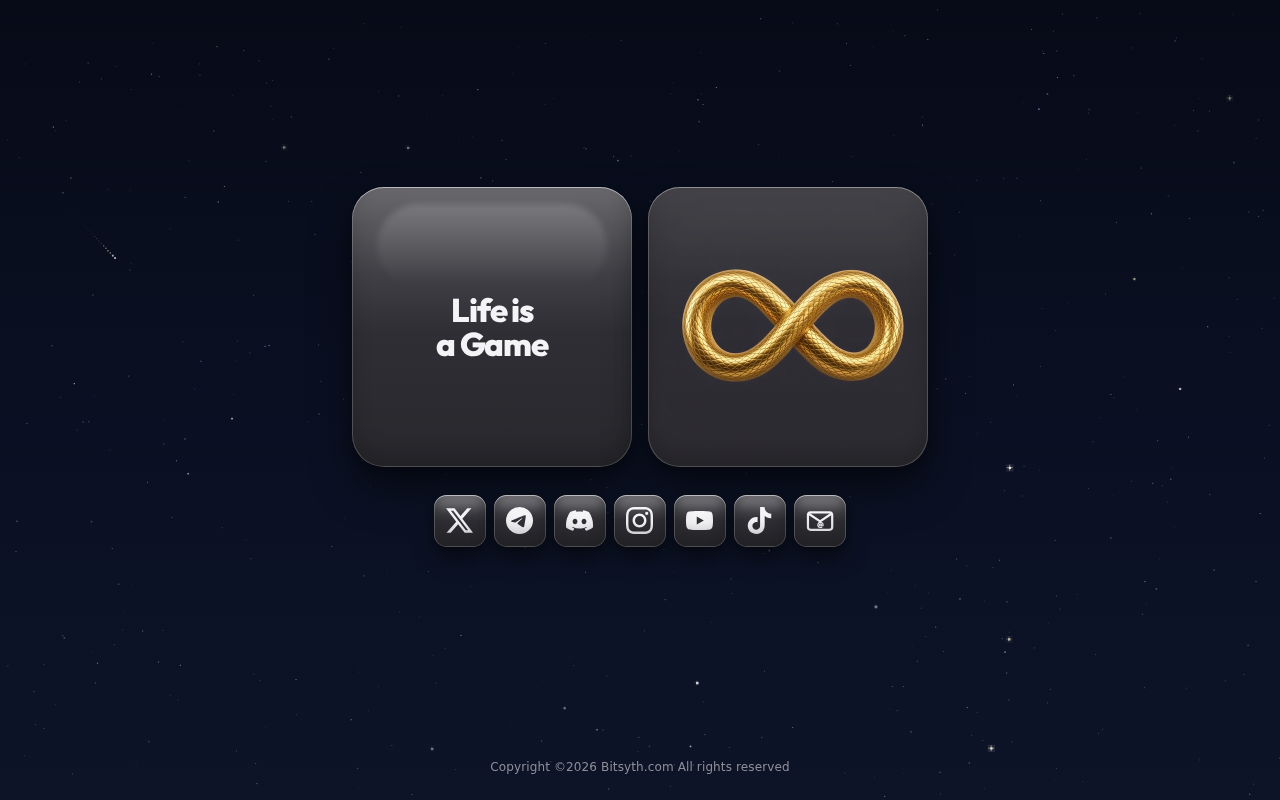
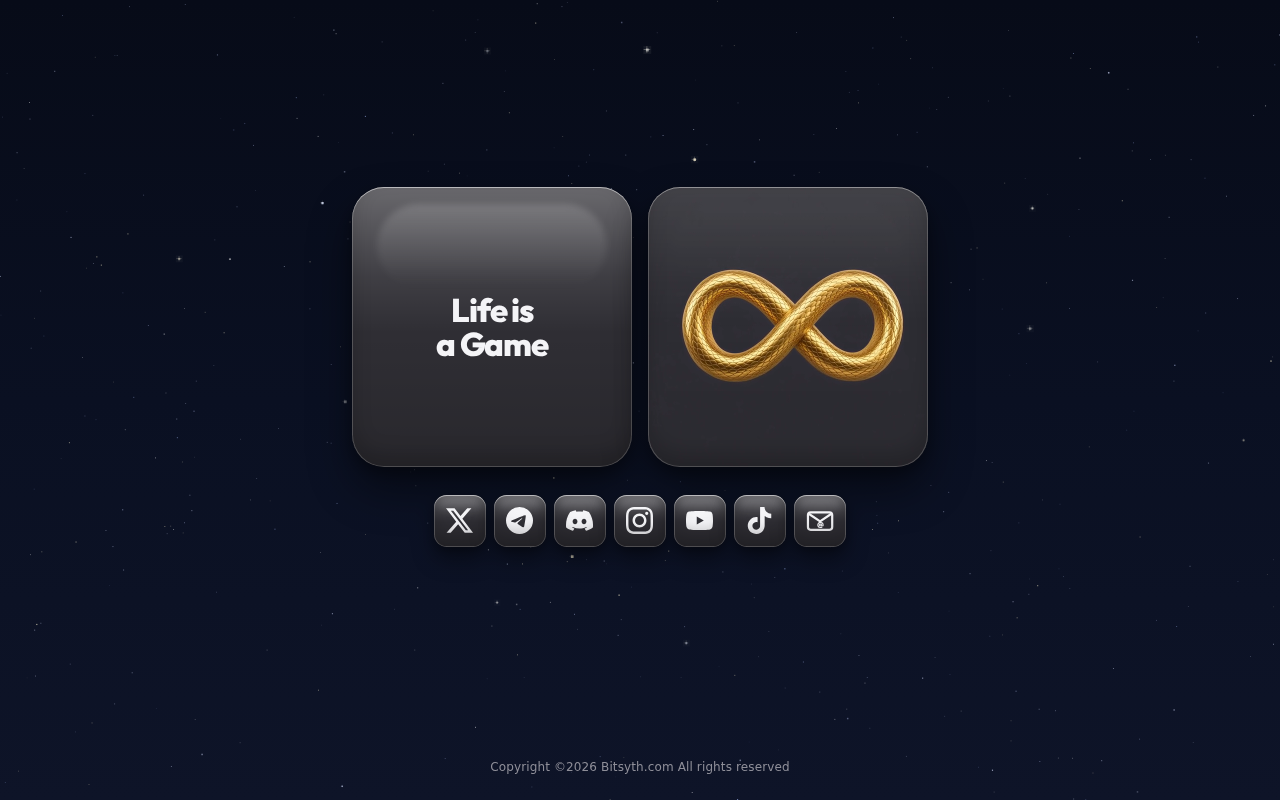
Export from Grok

Changed region(s): [[0.5312, 0.3438, 0.7188, 0.4688]]

diff --git a/index.html b/index.html
@@ -500,6 +500,7 @@
         const SCALE = 1;
         const STAR = ["#9db0e8", "#d7e0ff", "#fff6d2", "#cfd6f5", "#ffffff", "#b8c4f0"];
         let w = 0, h = 0, stars = [], meteors = [], last = 0, spawnAt = 0, skyGrad = null;
+        let ufo = null, ufoAt = 0, ufoLastX = -999, ufoLastY = -999;
 
         function rand(n) { return Math.random() * n; }
         function irand(n) { return (Math.random() * n) | 0; }
@@ -612,6 +613,74 @@
           return t + 900 + rand(2600);
         }
 
+        function armUfo(t, first) {
+          ufo = null;
+          ufoAt = t + (first ? 3500 + rand(8000) : 10000 + rand(28000));
+        }
+
+        function spawnUfo() {
+          const pad = 36;
+          let x, y, n = 0;
+          do {
+            x = pad + rand(w - pad * 2);
+            y = pad + rand(h * 0.7);
+            n++;
+          } while (n < 10 && Math.hypot(x - ufoLastX, y - ufoLastY) < Math.min(w, h) * 0.38);
+          ufoLastX = x;
+          ufoLastY = y;
+          const dir = Math.random() < 0.5 ? -1 : 1;
+          const dart = Math.random() < 0.4;
+          ufo = {
+            x, y,
+            vx: dir * (dart ? 1.6 + rand(1.4) : 0.55 + rand(0.7)),
+            vy: (Math.random() - 0.5) * (dart ? 0.55 : 0.28),
+            phase: rand(Math.PI * 2),
+            zigAmp: 6 + rand(16),
+            zigFreq: 0.07 + rand(0.14),
+            life: dart ? 48 + irand(40) : 70 + irand(80),
+            fade: 0,
+            size: 4.2 + rand(3.2),
+            alpha: 0.16 + rand(0.18),
+            tilt: (Math.random() - 0.5) * 0.25,
+          };
+        }
+
+        function drawUfo() {
+          if (!ufo) return;
+          if (ufo.life > 16) ufo.fade = Math.min(1, ufo.fade + 0.07);
+          else ufo.fade = Math.max(0, ufo.fade - 0.08);
+          ufo.phase += ufo.zigFreq;
+          ufo.x += ufo.vx;
+          ufo.y += ufo.vy + Math.sin(ufo.phase) * ufo.zigAmp * 0.11;
+          ufo.life--;
+          const a = ufo.alpha * ufo.fade;
+          if (a < 0.01) return;
+          const x = ufo.x, y = ufo.y, s = ufo.size;
+          ctx.save();
+          ctx.translate(x, y);
+          ctx.rotate(ufo.tilt + Math.sin(ufo.phase * 0.5) * 0.06);
+          ctx.globalAlpha = a * 0.22;
+          ctx.fillStyle = "#8ea0b4";
+          ctx.beginPath();
+          ctx.ellipse(0, 1, s * 1.7, s * 0.7, 0, 0, Math.PI * 2);
+          ctx.fill();
+          ctx.globalAlpha = a;
+          ctx.fillStyle = "#b7c2cc";
+          ctx.beginPath();
+          ctx.ellipse(0, 0, s * 1.45, s * 0.38, 0, 0, Math.PI * 2);
+          ctx.fill();
+          ctx.fillStyle = "#6d7886";
+          ctx.beginPath();
+          ctx.ellipse(0, -s * 0.22, s * 0.48, s * 0.28, 0, 0, Math.PI * 2);
+          ctx.fill();
+          ctx.globalAlpha = a * 0.35;
+          ctx.fillStyle = "#cfe0f0";
+          ctx.fillRect(-s * 0.9, -0.4, 1.2, 1.2);
+          ctx.fillRect(s * 0.55, -0.4, 1.2, 1.2);
+          ctx.restore();
+          ctx.globalAlpha = 1;
+        }
+
         function tick(t) {
           requestAnimationFrame(tick);
           if (t - last < 33) return;
@@ -679,11 +748,16 @@
             if (m.fade < 0.06 || m.life < 0 || m.y > h + 28 || m.x < -40 || m.x > w + 40)
               meteors.splice(i, 1);
           }
+          if (!ufo && t > ufoAt) spawnUfo();
+          drawUfo();
+          if (ufo && (ufo.life < 0 || ufo.fade <= 0 || ufo.x < -50 || ufo.x > w + 50 || ufo.y < -40 || ufo.y > h + 40))
+            armUfo(t);
         }
 
         resize();
         spawnMeteor();
         spawnAt = 400 + rand(900);
+        armUfo(0, true);
         window.addEventListener("resize", resize, { passive: true });
         requestAnimationFrame(tick);
       })();
